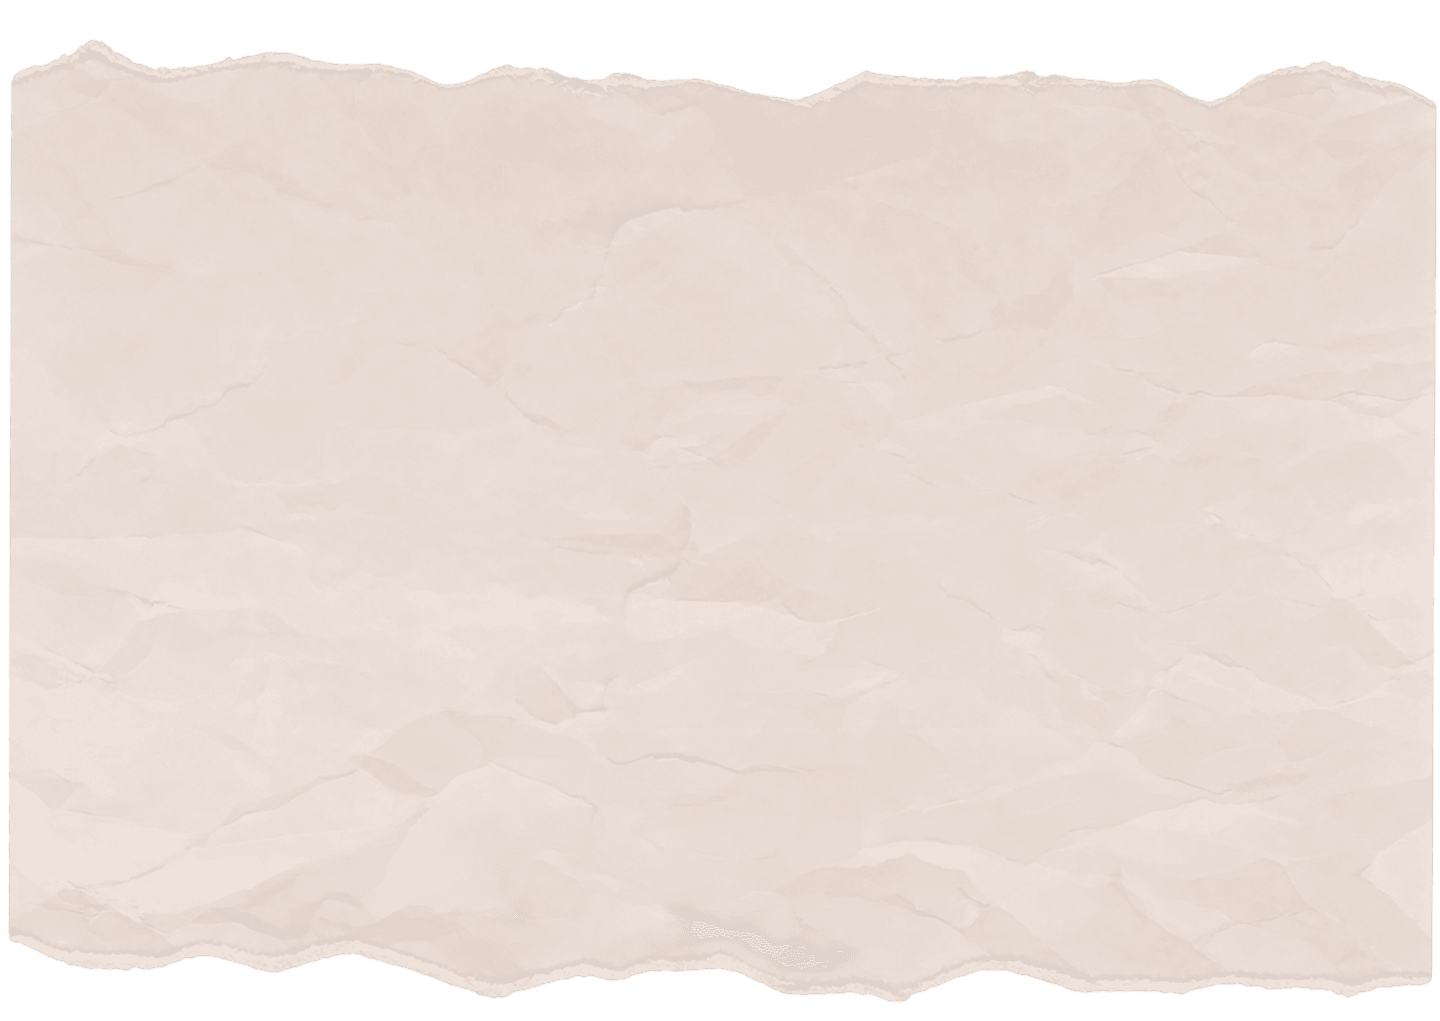
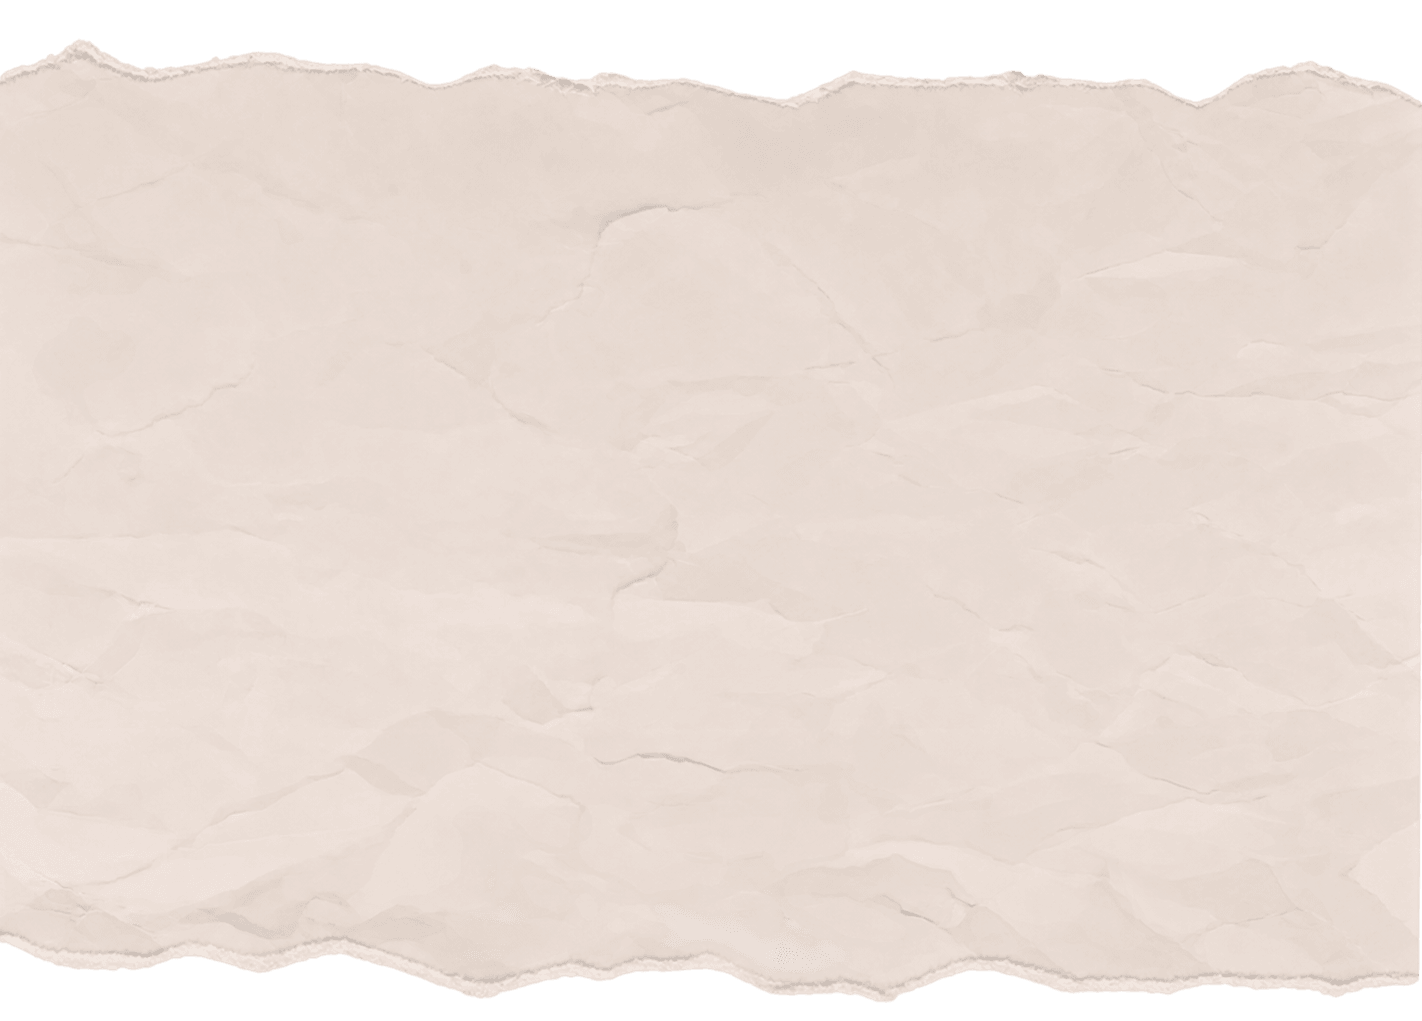
illsutration 2

Changed region(s): [[0.9902, 0.0911, 1.0, 0.9716], [0.0, 0.0607, 0.0309, 0.9412], [0.0309, 0.0304, 0.0928, 0.0607]]

diff --git a/src/app/[locale]/(routes)/projects/illustrations/components/Content.tsx b/src/app/[locale]/(routes)/projects/illustrations/components/Content.tsx
@@ -29,6 +29,8 @@ type ImageAsset = {
     imgClassName?: string;
     /** Extra Tailwind classes applied to the wrapper around the <Image>. */
     wrapperClassName?: string;
+    /** Override the default `sizes` attribute. Needed when CSS scales the image beyond its layout box (e.g. `scale-[2]`) so Next serves a higher-res srcset variant. */
+    sizes?: string;
 };
 
 type PairConfig = {
@@ -68,9 +70,9 @@ const intoTheWoods: PairConfig = {
     split: "60-40",
 };
 
-const hiHunny: PairConfig = {
+const hiHunnyDesktop: PairConfig = {
     key: "hi_hunny",
-    sectionClassName: "mt-0 md:mt-24",
+    sectionClassName: "mt-0 md:mt-24 hidden md:block",
     left: {
         src: `${IMG}/hi-hunny-sketch.png`,
         width: 666,
@@ -97,14 +99,15 @@ const coffeeMaker: SingleConfig = {
         maxWidth: 1000,
         altKey: "projects.coffee_maker.image_alt",
         wrapperClassName: "justify-start md:-ml-[3%]",
-        imgClassName: "scale-[2] ml-[-35%] md:scale-[1.20] md:ml-[0%]",
+        imgClassName: "scale-[2] ml-[-40%] md:scale-[1.20] md:ml-[0%]",
+        sizes: "(max-width: 768px) 200vw, 60vw",
     },
     sectionClassName: "-mt-8 md:-mt-48 mb-24 md:mb-0",
 };
 
-const adventure: SingleConfig = {
+const adventureDesktop: SingleConfig = {
     key: "adventure",
-    sectionClassName: "mt-0 md:mt-24",
+    sectionClassName: "mt-0 md:mt-24 hidden md:block",
     image: {
         src: `${IMG}/adventure.png`,
         width: 1159,
@@ -169,7 +172,7 @@ function SingleSection({ cfg, t }: { cfg: SingleConfig; t: T }) {
                     alt={t(cfg.image.altKey)}
                     width={cfg.image.width}
                     height={cfg.image.height}
-                    sizes="(max-width: 768px) 92vw, 60vw"
+                    sizes={cfg.image.sizes ?? "(max-width: 768px) 92vw, 60vw"}
                     className={`h-auto w-full object-contain ${cfg.image.imgClassName ?? ""}`}
                     style={{ maxWidth: `${cfg.image.maxWidth}px` }}
                 />
@@ -183,6 +186,7 @@ const INDIVIDUAL = "/media/project/illustrations/individual";
 function BillTheBearSection({ t }: { t: T }) {
     return (
         <section className="relative py-16 md:py-24 mb-16 md:mb-24">
+            {/* Desktop: kraft stretched to section box */}
             <Image
                 src={`${IMG}/kraft-paper-bg.png`}
                 alt=""
@@ -190,8 +194,23 @@ function BillTheBearSection({ t }: { t: T }) {
                 aria-hidden
                 sizes="100vw"
                 quality={90}
-                className="-z-10 object-fill select-none pointer-events-none"
+                className="hidden md:block -z-10 object-fill select-none pointer-events-none"
             />
+            {/* Mobile: kraft sized to section height with natural aspect ratio (overflows horizontally, clipped by outer overflow-x-clip) */}
+            <div
+                className="md:hidden absolute top-0 bottom-0 left-1/2 -translate-x-1/2 -z-10"
+                style={{ aspectRatio: "1422 / 1021" }}
+                aria-hidden
+            >
+                <Image
+                    src={`${IMG}/kraft-paper-bg.png`}
+                    alt=""
+                    fill
+                    sizes="(max-width: 768px) 200vw, 100vw"
+                    quality={90}
+                    className="object-fill select-none pointer-events-none"
+                />
+            </div>
             <div className="container-xl pb-[100px]">
                 {/* Mobile: 4 stacked elements (title → research → lineart → character) */}
                 <motion.div
@@ -269,6 +288,123 @@ function BillTheBearSection({ t }: { t: T }) {
     );
 }
 
+type HiHunnyMobileItem = {
+    src: string;
+    width: number;
+    height: number;
+    altKey: string;
+    maxWidth: string;
+    imgClassName?: string;
+};
+
+const hiHunnyMobileItems: HiHunnyMobileItem[] = [
+    {
+        src: `${INDIVIDUAL}/bill-the-bear-title.png`,
+        width: 353,
+        height: 201,
+        altKey: "projects.hi_hunny.image_alt.title",
+        maxWidth: "60%",
+        imgClassName: "z-20",
+    },
+    {
+        src: `${INDIVIDUAL}/hi-hunny-sketch-1.png`,
+        width: 365,
+        height: 298,
+        altKey: "projects.hi_hunny.image_alt.sketch_1",
+        maxWidth: "78%",
+        imgClassName: "-mt-[6%] rotate-[3deg] translate-x-[3%] z-10 scale-[1.05]",
+    },
+    {
+        src: `${INDIVIDUAL}/hi-hunny-sketch-2.png`,
+        width: 370,
+        height: 463,
+        altKey: "projects.hi_hunny.image_alt.sketch_2",
+        maxWidth: "78%",
+        imgClassName: "-mt-[8%] -rotate-[2deg] -translate-x-[3%] z-30 scale-[1.05]",
+    },
+    {
+        src: `${IMG}/hi-hunny-final.png`,
+        width: 669,
+        height: 553,
+        altKey: "projects.hi_hunny.image_alt.final",
+        maxWidth: "92%",
+        imgClassName: "mt-[6%] z-40",
+    },
+];
+
+function HiHunnyMobileSection({ t }: { t: T }) {
+    return (
+        <section className="md:hidden container-xl pb-16 mt-32">
+            <motion.div {...revealProps} className="relative flex flex-col items-center">
+                {hiHunnyMobileItems.map((item) => (
+                    <Image
+                        key={item.src}
+                        src={item.src}
+                        alt={t(item.altKey)}
+                        width={item.width}
+                        height={item.height}
+                        sizes="90vw"
+                        className={`relative h-auto w-full object-contain ${item.imgClassName ?? ""}`}
+                        style={{ maxWidth: item.maxWidth }}
+                    />
+                ))}
+            </motion.div>
+        </section>
+    );
+}
+
+type AdventureMobileItem = {
+    src: string;
+    width: number;
+    height: number;
+    altKey: string;
+    /** "end" pega la imagen al borde derecho, "start" al izquierdo. */
+    align: "start" | "end";
+    /** Tailwind width class, e.g. "w-[88%]". */
+    widthClass: string;
+    imgClassName?: string;
+};
+
+const adventureMobileItems: AdventureMobileItem[] = [
+    {
+        src: `${INDIVIDUAL}/adventure-left.png`,
+        width: 558,
+        height: 1060,
+        altKey: "projects.adventure.image_alt_mobile.left",
+        align: "end",
+        widthClass: "w-[90%]",
+    },
+    {
+        src: `${INDIVIDUAL}/adventure-right.png`,
+        width: 559,
+        height: 1060,
+        altKey: "projects.adventure.image_alt_mobile.right",
+        align: "start",
+        widthClass: "w-[90%]",
+        imgClassName: "mt-[-25%]",
+    },
+];
+
+function AdventureMobileSection({ t }: { t: T }) {
+    return (
+        <section className="md:hidden pb-16 mt-12">
+            <motion.div {...revealProps} className="flex flex-col">
+                {adventureMobileItems.map((item) => (
+                    <Image
+                        key={item.src}
+                        src={item.src}
+                        alt={t(item.altKey)}
+                        width={item.width}
+                        height={item.height}
+                        sizes="90vw"
+                        className={`h-auto object-contain ${item.widthClass} ${item.align === "end" ? "self-end" : "self-start"} ${item.imgClassName ?? ""}`}
+                    />
+                ))}
+            </motion.div>
+        </section>
+    );
+}
+
 export default function IllustrationsContent() {
     const t = useTranslations("app.projects.illustrations.content");
 
@@ -289,8 +425,10 @@ export default function IllustrationsContent() {
             <PairSection cfg={intoTheWoods} t={t} />
             <BillTheBearSection t={t} />
             <SingleSection cfg={coffeeMaker} t={t} />
-            <PairSection cfg={hiHunny} t={t} />
-            <SingleSection cfg={adventure} t={t} />
+            <HiHunnyMobileSection t={t} />
+            <PairSection cfg={hiHunnyDesktop} t={t} />
+            <AdventureMobileSection t={t} />
+            <SingleSection cfg={adventureDesktop} t={t} />
         </div>
     );
 }

diff --git a/src/i18n/locale/en.ts b/src/i18n/locale/en.ts
@@ -428,12 +428,19 @@ export default {
                         },
                         hi_hunny: {
                             image_alt: {
+                                title: "Torn-paper note with the handwritten title \"Hi Hunny\"",
                                 sketch: "Preparatory sketches of the \"Hi Hunny\" illustration on stacked papers, with a torn-paper note bearing the handwritten title",
+                                sketch_1: "Early blue-pencil sketch of the \"Hi Hunny\" illustration with balloons and roughed-in figures",
+                                sketch_2: "Refined pencil sketch of the elderly couple embracing for the \"Hi Hunny\" illustration",
                                 final: "Final \"Hi Hunny\" illustration in color: an elderly couple embracing next to the line-art sketch of a woman in jeans"
                             }
                         },
                         adventure: {
-                            image_alt: "Open notebook with a hiker sketch on the left page and the final colored illustration on the right page over an orange background, accompanied by sticky notes: \"adventure\", \"ideas\", \"color swap\" and \"let's explore nature!\""
+                            image_alt: "Open notebook with a hiker sketch on the left page and the final colored illustration on the right page over an orange background, accompanied by sticky notes: \"adventure\", \"ideas\", \"color swap\" and \"let's explore nature!\"",
+                            image_alt_mobile: {
+                                left: "Notebook page with a pencil sketch of a hiker with a backpack and a handwritten sticky note: \"let's explore nature!\"",
+                                right: "Notebook page with the final colored hiker illustration on an orange background, accompanied by \"ideas\" and \"color swap\" sticky notes"
+                            }
                         }
                     }
                 }

diff --git a/src/i18n/locale/es.ts b/src/i18n/locale/es.ts
@@ -428,12 +428,19 @@ export default {
                         },
                         hi_hunny: {
                             image_alt: {
+                                title: "Nota recortada con el título \"Hi Hunny\" escrito a mano",
                                 sketch: "Bocetos preparatorios de la ilustración \"Hi Hunny\" sobre papeles apilados, con nota recortada del título escrita a mano",
+                                sketch_1: "Boceto preliminar a lápiz azul de la ilustración \"Hi Hunny\" con globos y figuras esbozadas",
+                                sketch_2: "Boceto a lápiz refinado de la pareja de ancianos abrazándose para la ilustración \"Hi Hunny\"",
                                 final: "Ilustración final \"Hi Hunny\" en color: pareja de ancianos abrazándose junto al boceto en línea de una mujer con vaqueros"
                             }
                         },
                         adventure: {
-                            image_alt: "Cuaderno abierto con boceto de excursionista a la izquierda e ilustración final en color a la derecha sobre fondo naranja, acompañado de notas adhesivas: \"adventure\", \"ideas\", \"color swap\" y \"let's explore nature!\""
+                            image_alt: "Cuaderno abierto con boceto de excursionista a la izquierda e ilustración final en color a la derecha sobre fondo naranja, acompañado de notas adhesivas: \"adventure\", \"ideas\", \"color swap\" y \"let's explore nature!\"",
+                            image_alt_mobile: {
+                                left: "Página de cuaderno con boceto a lápiz de un excursionista con mochila y nota adhesiva manuscrita: \"let's explore nature!\"",
+                                right: "Página de cuaderno con ilustración final en color del excursionista sobre fondo naranja, con notas adhesivas \"ideas\" y \"color swap\""
+                            }
                         }
                     }
                 }